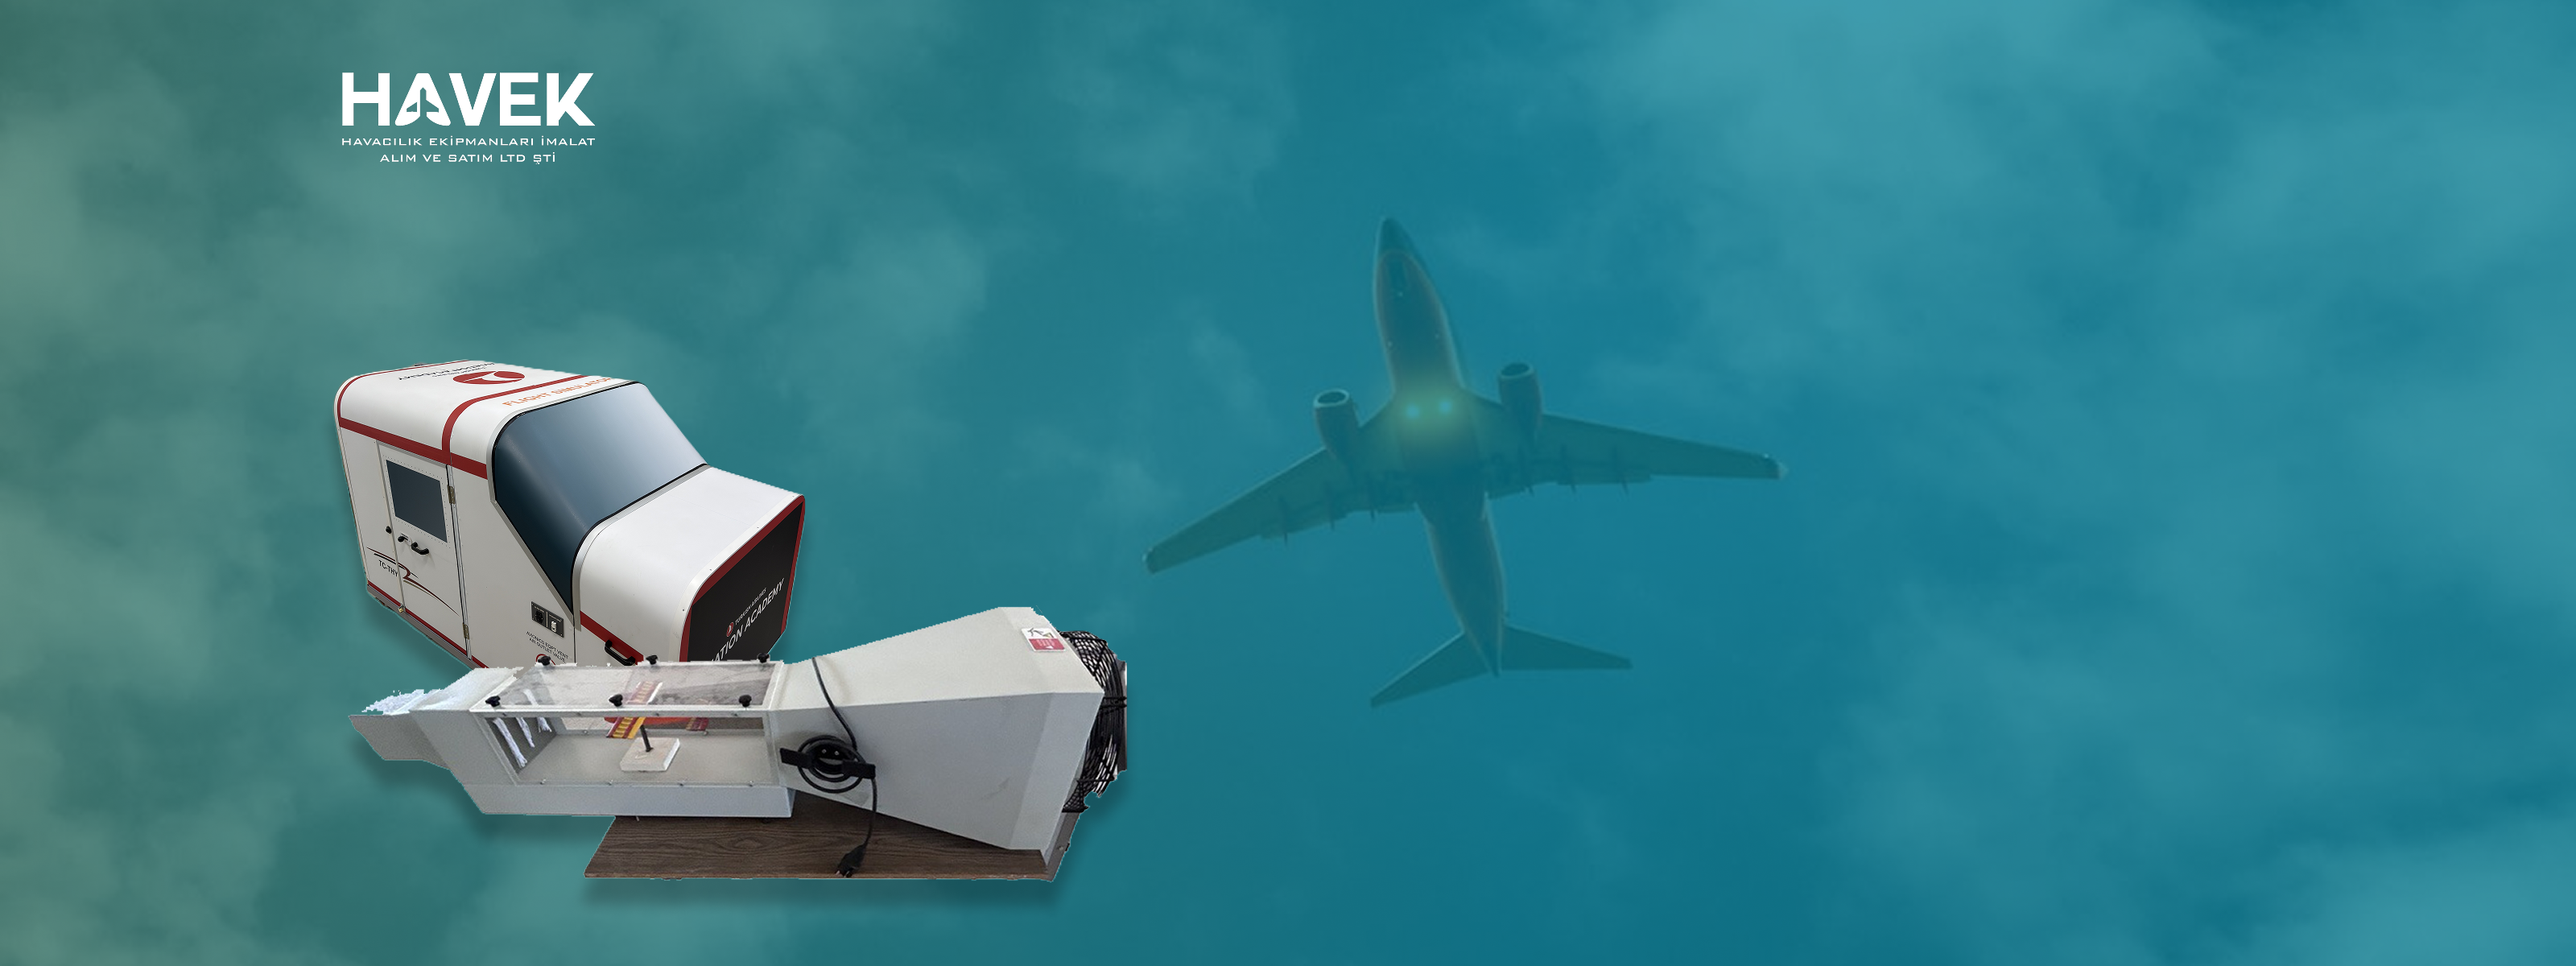
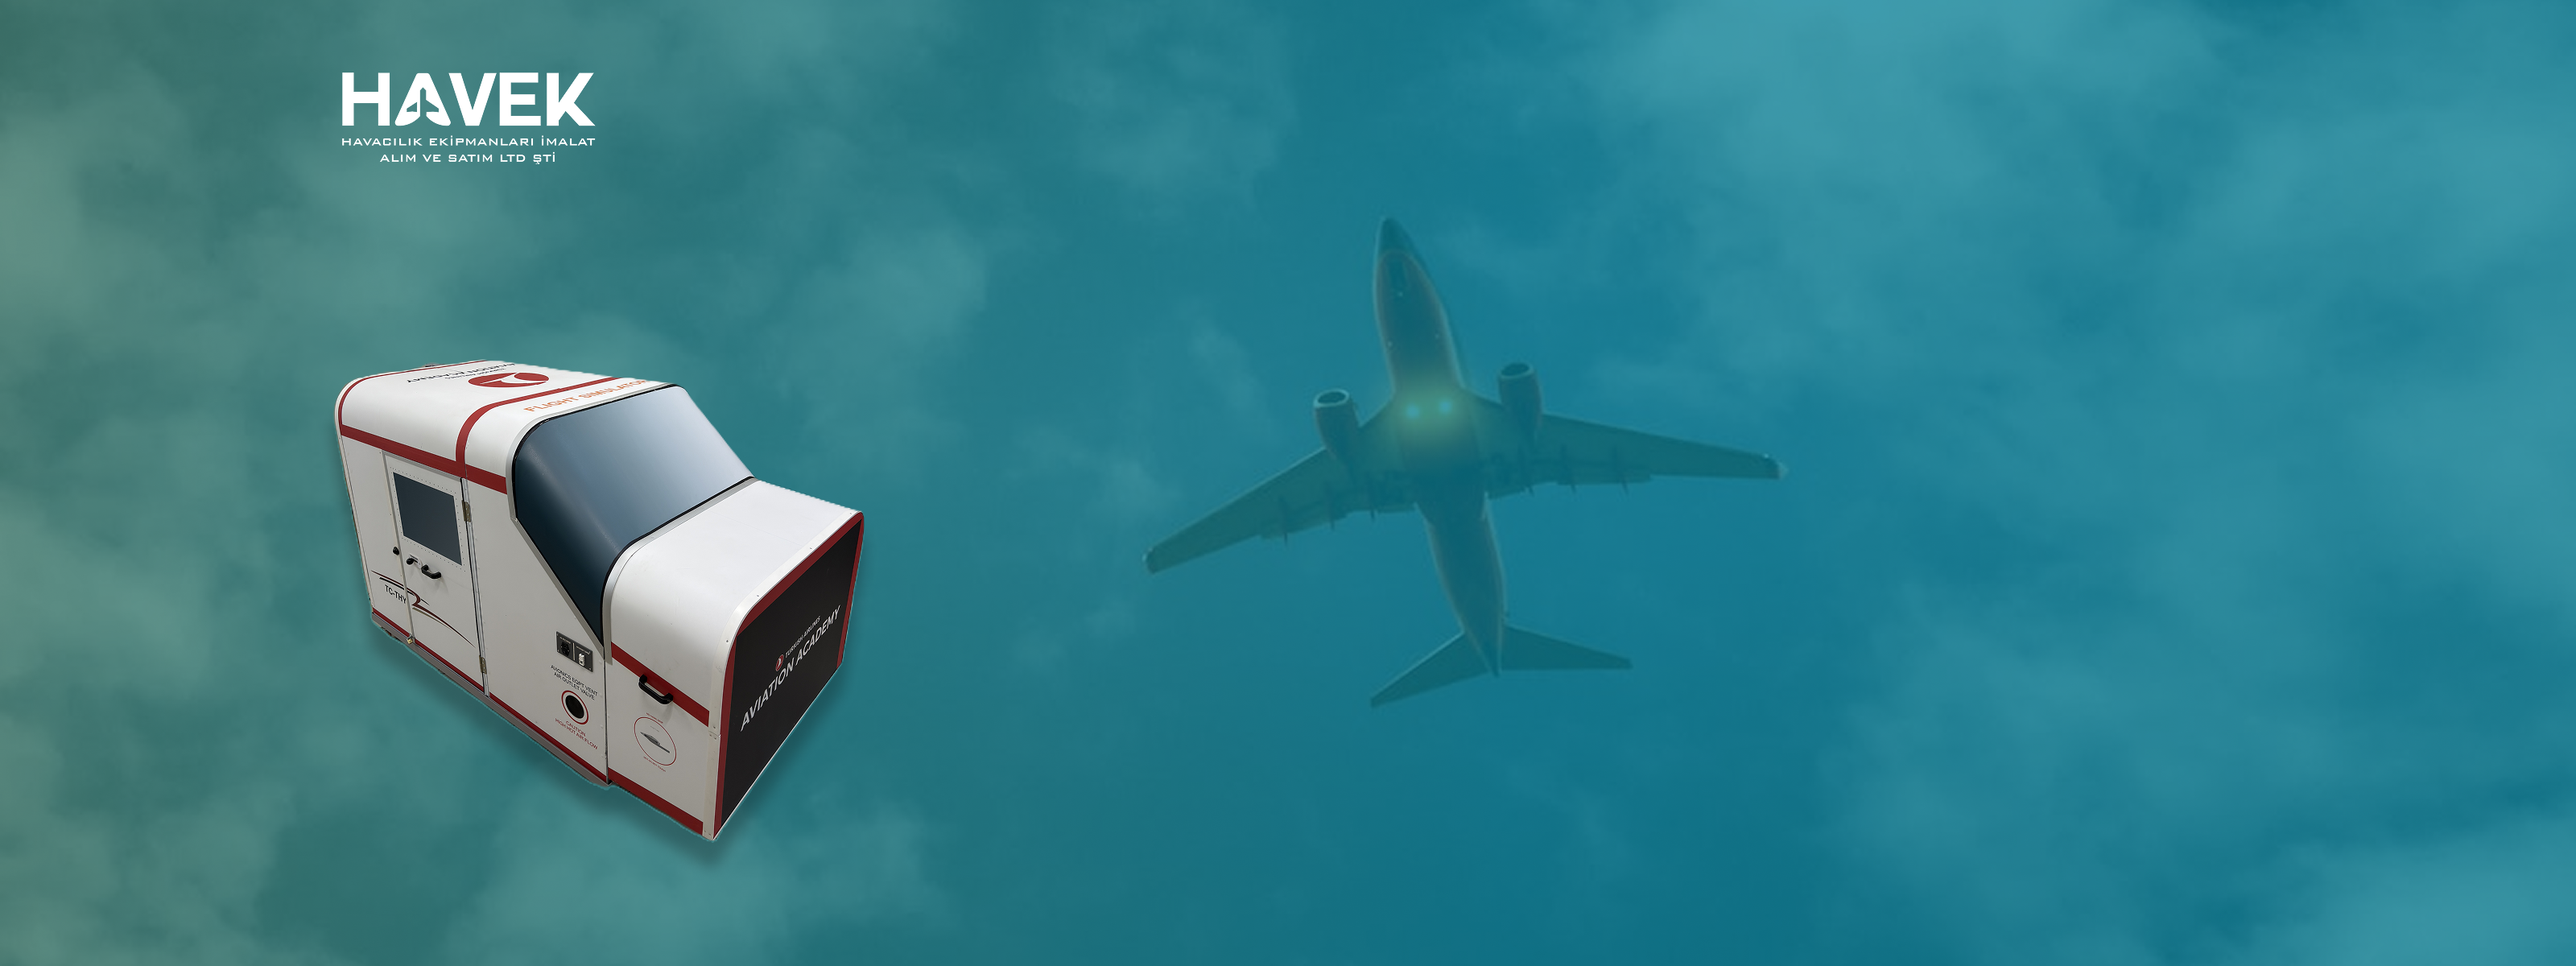
Update simulator slide title and image

Changed region(s): [[0.125, 0.37, 0.4375, 0.9558]]

diff --git a/src/components/HeroSlider.jsx b/src/components/HeroSlider.jsx
@@ -8,7 +8,7 @@ const SLIDES = [
     id: 1,
     eyebrow: 'Uygulamalı Havacılık Eğitimi',
     title: 'Sivil Havacılığın\nTemeli: Eğitim Setleri',
-    desc: 'ICAO ve EASA standartlarına uyumlu, gerçek ekipmanlarla donatılmış eğitim setleri. Teknisyenlerinizin arıza analizi ve bakım süreçlerinde uluslararası yeterlilik kazanmasını sağlıyoruz.',
+    desc: 'FAA ve EASA standartlarına uyumlu, gerçek ekipmanlarla donatılmış eğitim setleri. Teknisyenlerinizin arıza analizi ve bakım süreçlerinde uluslararası yeterlilik kazanmasını sağlıyoruz.',
     img: '/slide01.png',
     cta: 'Eğitim Setlerini Keşfet',
     href: '/egitim-setleri',
@@ -16,7 +16,7 @@ const SLIDES = [
   {
     id: 2,
     eyebrow: 'Simülasyon Teknolojileri',
-    title: 'Uçuş Simülatörleri &\nRüzgar Tünelleri',
+    title: 'SİMÜLATÖRLER',
     desc: 'FAA ve EASA düzenlemelerine uygun profesyonel simülasyon altyapısı. Gerçek uçuş koşullarını güvenli ortamda yeniden üretin.',
     img: '/slide02.png',
     cta: 'Simülatörleri İncele',
